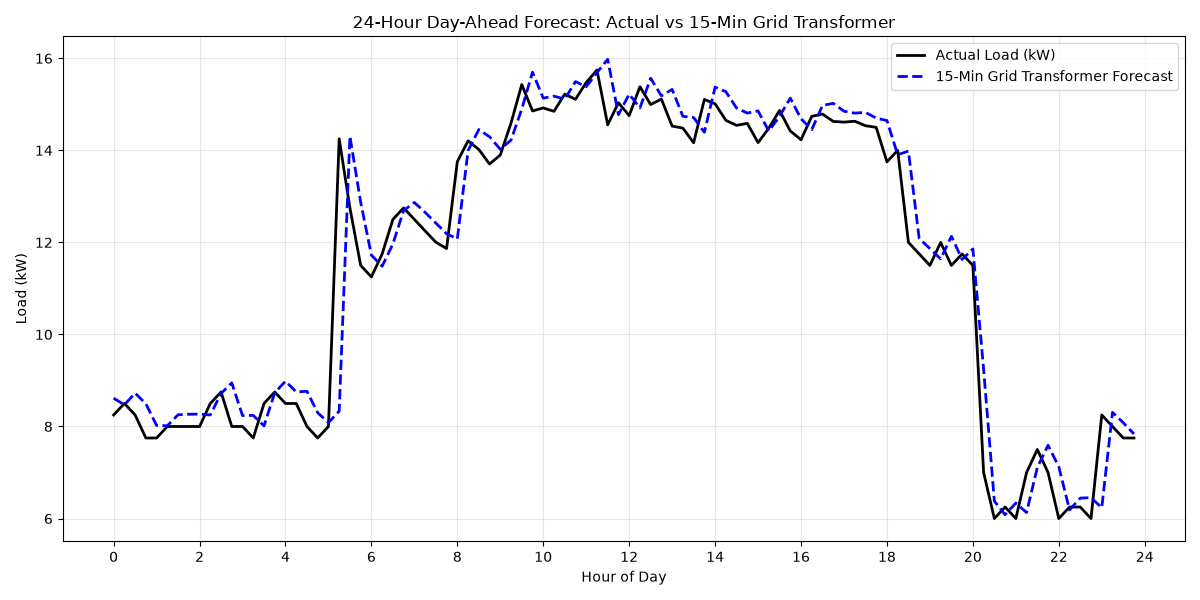
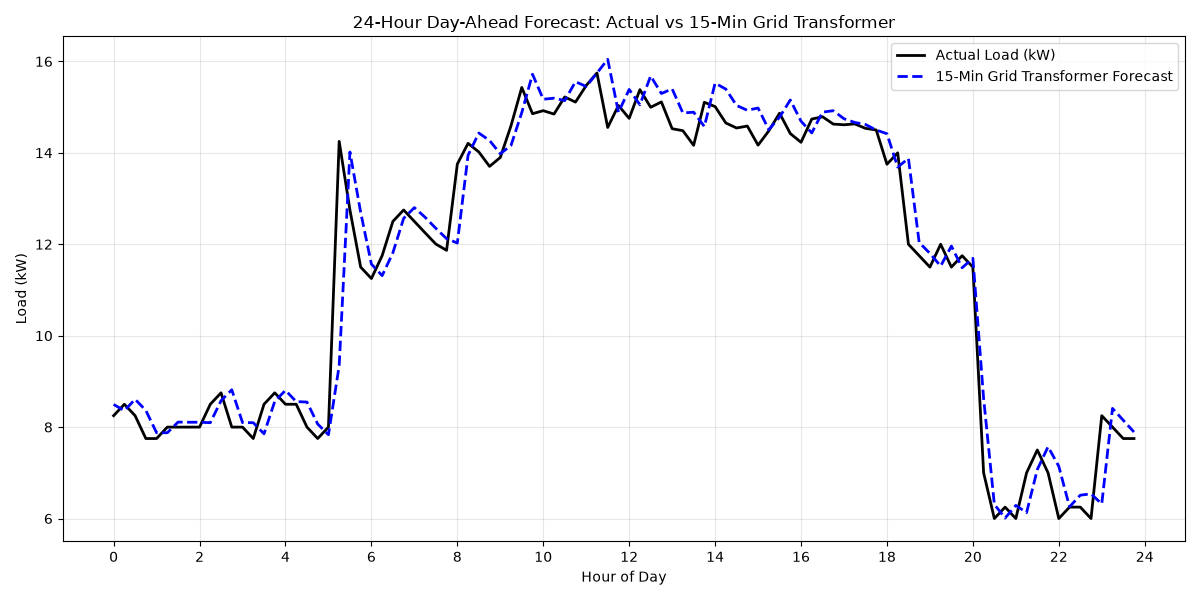
23 Sep EOD

diff --git a/CommFac/1hr_tft.py b/CommFac/1hr_tft.py
@@ -1,9 +1,17 @@
+import os
+import random
 import numpy as np
 import torch
 import torch.nn as nn
 from torch.utils.data import TensorDataset, DataLoader
 from sklearn.metrics import mean_squared_error, mean_absolute_error
-import os
+
+# 1. Enforce Deterministic Behavior
+torch.manual_seed(42)
+np.random.seed(42)
+random.seed(42)
+if torch.cuda.is_available():
+    torch.cuda.manual_seed_all(42)
 
 # Import components from the configured La Trobe pipeline
 from data import train_df, val_df, test_df, scaler
@@ -11,16 +19,12 @@ from slidingWindow import create_safe_sequences
 from models import GridTransformer
 from visualize import plot_single_model_forecast
 
-torch.manual_seed(42)
-np.random.seed(42)
-if torch.cuda.is_available():
-    torch.cuda.manual_seed_all(42)
 # ==============================================================================
 # MAIN PIPELINE
 # ==============================================================================
 def main():
-    # 15-Minute (1-Step) Configuration
-    HORIZON = 1              
+    # 1-Hour (4-Step) Configuration
+    HORIZON = 4              
     SEQ_LEN = 96             
     TARGET_IDX = 1           
     COVARIATE_START_IDX = 2
@@ -29,13 +33,13 @@ def main():
     BATCH_SIZE = 64
     EPOCHS = 100
     PATIENCE = 10
-    LEARNING_RATE = 3e-3
-    WEIGHT_DECAY = 5e-6
+    LEARNING_RATE = 2e-4
+    WEIGHT_DECAY = 2e-5
 
     device = torch.device("cuda" if torch.cuda.is_available() else "cpu")
-    print(f"--- Starting 15-Minute-Ahead Grid Transformer Pipeline on {device} ---")
+    print(f"--- Starting 1-Hour-Ahead Grid Transformer Pipeline on {device} ---")
     
-    # 1. Extract 3D Tensors
+    # 2. Extract 3D Tensors
     X_train_hist, X_train_fut, Y_train = create_safe_sequences(
         train_df, seq_len=SEQ_LEN, horizon=HORIZON, target_idx=TARGET_IDX, covariate_start_idx=COVARIATE_START_IDX
     )
@@ -46,14 +50,14 @@ def main():
         test_df, seq_len=SEQ_LEN, horizon=HORIZON, target_idx=TARGET_IDX, covariate_start_idx=COVARIATE_START_IDX
     )
     
-    # 2. Build DataLoaders
+    # 3. Build DataLoaders
     train_dataset = TensorDataset(X_train_hist, X_train_fut, Y_train)
     train_loader = DataLoader(train_dataset, batch_size=BATCH_SIZE, shuffle=True)
     
     val_dataset = TensorDataset(X_val_hist, X_val_fut, Y_val)
     val_loader = DataLoader(val_dataset, batch_size=BATCH_SIZE, shuffle=False)
     
-    # 3. Instantiate Model
+    # 4. Instantiate Model
     hist_input_dim = X_train_hist.shape[2]
     future_input_dim = X_train_fut.shape[2]
     
@@ -63,20 +67,21 @@ def main():
         seq_len=SEQ_LEN,
         horizon=HORIZON,
         d_model=64,
-        n_heads=2,
-        num_layers=1,
-        dropout=0.5
+        n_heads=8,
+        num_layers=3,
+        dropout=0.4
     ).to(device)
     
+    # L1Loss is equivalent to MAE, aligning better with your target WAPE metric
     criterion = nn.L1Loss()
     optimizer = torch.optim.Adam(model.parameters(), lr=LEARNING_RATE, weight_decay=WEIGHT_DECAY)
     
-    # 4. Training Loop with Early Stopping
+    # 5. Training Loop with Early Stopping
     print(f"Training Model for up to {EPOCHS} Epochs (Patience: {PATIENCE})...")
     
     best_val_loss = float('inf')
     epochs_no_improve = 0
-    best_model_path = 'best_grid_transformer.pth'
+    best_model_path = 'best_grid_transformer_1hr.pth'
     
     for epoch in range(1, EPOCHS + 1):
         # --- Training Phase ---
@@ -112,8 +117,8 @@ def main():
                 
         val_loss /= len(val_loader.dataset)
         
-        # Print every epoch
-        print(f"Epoch {epoch:03d}/{EPOCHS} | Train Loss (L1): {train_loss:.4f} | Val Loss (L1): {val_loss:.4f}")
+        # Print every epoch (Updated to reflect MAE/L1 calculation)
+        print(f"Epoch {epoch:03d}/{EPOCHS} | Train Loss (MAE): {train_loss:.4f} | Val Loss (MAE): {val_loss:.4f}")
         
         # --- Early Stopping Check ---
         if val_loss < best_val_loss:
@@ -126,7 +131,7 @@ def main():
                 print(f"\nEarly stopping triggered! No improvement in validation loss for {PATIENCE} epochs.")
                 break
                 
-    # 5. Evaluation Loop
+    # 6. Evaluation Loop
     print("\nLoading best model weights and evaluating on Test Set...")
     model.load_state_dict(torch.load(best_model_path))
     model.eval()
@@ -141,15 +146,17 @@ def main():
             preds = model(batch_hist, batch_fut)
             test_preds.append(preds.cpu().numpy())
             
+    # test_preds shape: (N_samples, 4)
     preds_np = np.concatenate(test_preds, axis=0)
     Y_test_np = Y_test.numpy()
     
-    # 6. Inverse Scaling & Metrics
+    # 7. Inverse Scaling & Metrics
     def inverse_scale(data_flat):
         dummy = np.zeros((len(data_flat), scaler.mean_.shape[0]))
         dummy[:, TARGET_IDX] = data_flat
         return scaler.inverse_transform(dummy)[:, TARGET_IDX]
 
+    # Calculate aggregate metrics across all 4 steps
     preds_kw_flat = inverse_scale(preds_np.ravel())
     targets_kw_flat = inverse_scale(Y_test_np.ravel())
     
@@ -157,17 +164,20 @@ def main():
     mae = mean_absolute_error(targets_kw_flat, preds_kw_flat)
     wape = np.sum(np.abs(targets_kw_flat - preds_kw_flat)) / np.sum(np.abs(targets_kw_flat)) * 100
     
-    print("\n--- 15-Minute-Ahead Grid Transformer Metrics (kW) ---")
+    print("\n--- 1-Hour-Ahead Grid Transformer Metrics (kW) ---")
     print(f"RMSE: {rmse:.2f} | MAE: {mae:.2f} | WAPE: {wape:.2f}%")
     
-    # 7. Visualization
+    # 8. Visualization: Isolate the t+4 interval (index 3)
+    t4_preds = inverse_scale(preds_np[:, 3])
+    t4_targets = inverse_scale(Y_test_np[:, 3])
+    
     plot_single_model_forecast(
-        targets_kw_flat, 
-        preds_kw_flat, 
+        t4_targets, 
+        t4_preds, 
         start_idx=0, 
         horizon=96,
-        model_name="15-Min Grid Transformer", 
-        save_path='transformer_15min_ahead_forecast.png'
+        model_name="1-Hour Grid Transformer (t+4 step)", 
+        save_path='transformer_1hr_ahead_forecast.png'
     )
     
     # Cleanup temporary weight file

diff --git a/CommFac/tune_tft.py b/CommFac/tune_tft.py
@@ -42,7 +42,7 @@ class GridTransformer(nn.Module):
 # ==============================================================================
 # 2. TUNING PIPELINE
 # ==============================================================================
-HORIZON = 1             # Predict 1 step ahead (15 minutes)
+HORIZON = 4             # Predict 4 steps ahead (60 minutes)
 SEQ_LEN = 96             # 96 intervals = 24 hours of history
 TARGET_IDX = 1           
 COVARIATE_START_IDX = 2  
@@ -153,8 +153,8 @@ def main():
     # Kept study name completely distinct to avoid database conflicts
     study = optuna.create_study(direction="minimize", pruner=pruner, study_name="24hr_tft_opt")
     
-    # Run 20 trials
-    study.optimize(objective, n_trials=20, timeout=3600)
+    # Run 10 trials
+    study.optimize(objective, n_trials=10, timeout=3600)
     
     print("\n--- Tuning Complete ---")
     print(f"Best Trial Validation WAPE: {study.best_trial.value:.2f}%")
